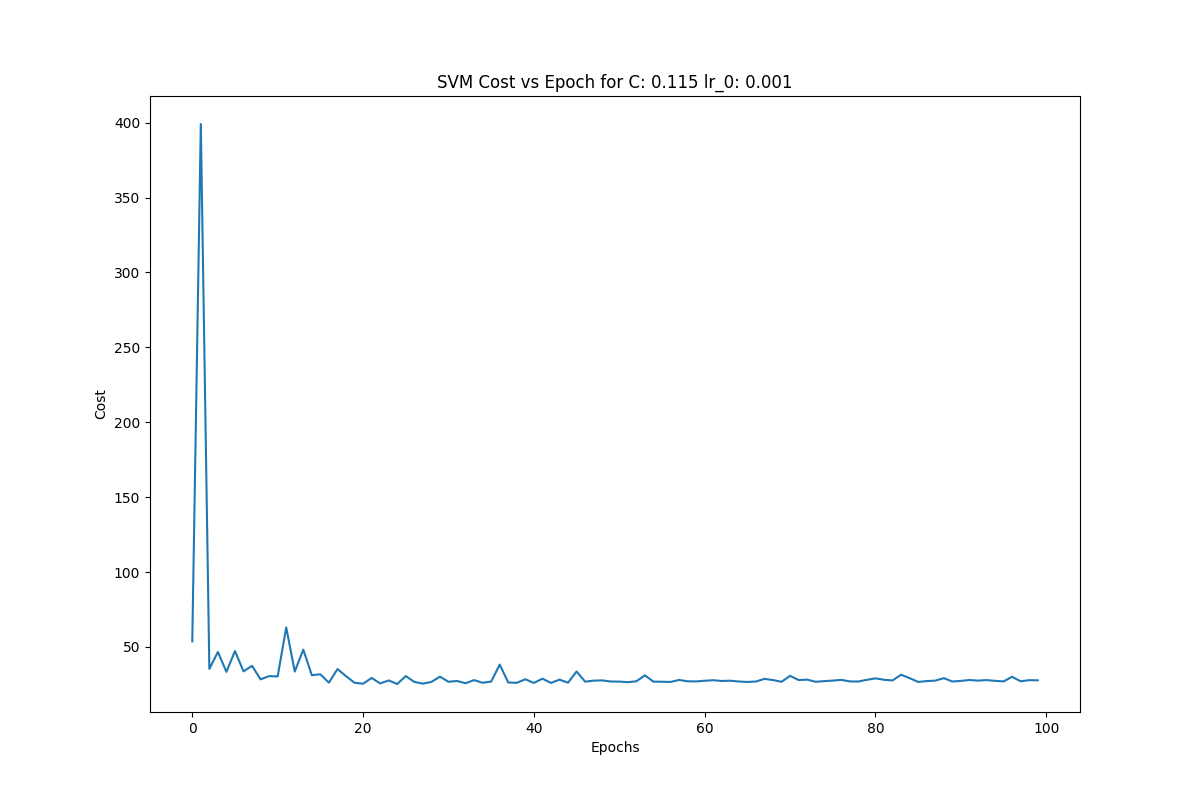
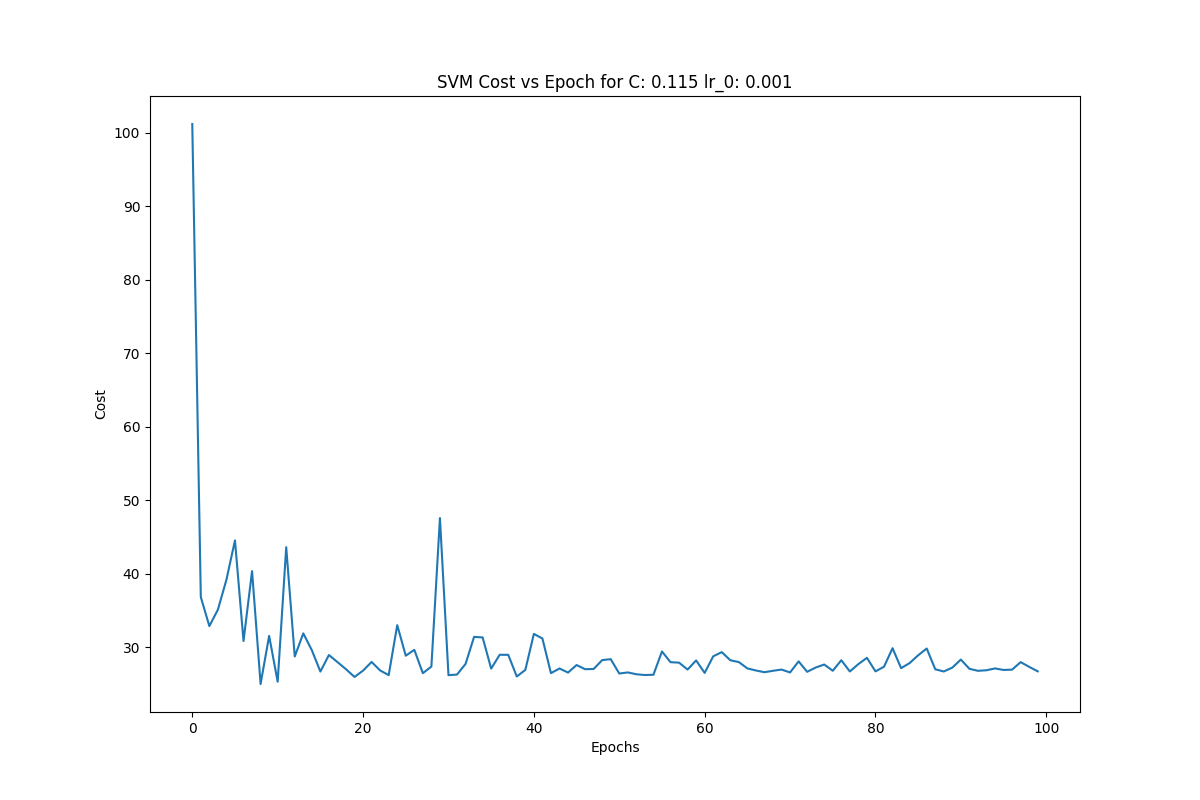
Finished SVM assignment

diff --git a/SVM/svm.py b/SVM/svm.py
@@ -66,7 +66,7 @@ def primal_stochastic_svm(train_x, train_y, test_x, test_y, C=100/873, lr_0=.001
         lr_schedule = lambda t,alpha: lr_0 / (1 + t)
 
     convergence_series = []
-    for epoch in range(max_epochs):
+    for epoch in range(1, max_epochs+1):
         lr = lr_schedule(epoch, a)
         rand_indices = np.random.choice(train_x.shape[0], train_x.shape[0],replace=True)
         batch_x = train_x.iloc[rand_indices]
@@ -108,8 +108,8 @@ def get_minimized_alphas(train_x, C, x, y, dual_svm_objective, dual_svm_jac):
     result = minimize(dual_svm_objective, a_0, constraints=constraints, method='SLSQP', bounds=bounds, jac=dual_svm_jac)
 
     minimized_a = result.x
-    minimized_a[np.isclose(minimized_a, 0)] = 0
-    minimized_a[np.isclose(minimized_a, C)] = C
+    minimized_a[np.isclose(minimized_a, 0, atol=.001)] = 0
+    minimized_a[np.isclose(minimized_a, C, atol=.001)] = C
     return minimized_a
 
 
@@ -153,7 +153,7 @@ def dual_svm(train_x, train_y, test_x, test_y, C=500/873, gamma=-1):
     test_error = 1 - np.mean(test_preds == test_y.values)
     train_error = 1 - np.mean(train_preds == train_y.values)
 
-    return weights, bias, train_error, test_error
+    return weights, bias, train_error, test_error, minimized_a
 
 
 
@@ -161,27 +161,58 @@ if __name__ == '__main__':
     train_x, train_y, test_x, test_y = read_bank_data()
     
     print("Primal SVM with stochastic sub-gradient descent with alpha learning-rate schedule:")
+    results = []
+
     for C in np.array([100/873, 500/873, 700/873]):
         weights, train_error, test_error = primal_stochastic_svm(train_x, train_y, test_x, test_y, C, a=.0001)
         print(f"C: {C.round(3)}, Weights: {weights.round(3)}, train_error: {train_error.round(3)}, test_error: {test_error.round(3)}")
+        results.append([C.round(3), train_error.round(3), test_error.round(3), weights.round(3)])
+
+    df = pd.DataFrame(results, columns=['C', 'Train Error', 'Test Error', 'Weights'])
+    df.to_latex('alpha_learning_rate_latex', index=False)
 
     print("\nPrimal SVM with stochastic sub-gradient descent without alpha learning-rate schedule:")
+    results = []
+
     for C in np.array([100/873, 500/873, 700/873]):
         weights, train_error, test_error = primal_stochastic_svm(train_x, train_y, test_x, test_y, C, a=-1)
         print(f"C: {C.round(3)}, Weights: {weights.round(3)}, train_error: {train_error.round(3)}, test_error: {test_error.round(3)}")
+        results.append([C.round(3), train_error.round(3), test_error.round(3), weights.round(3)])
 
+    df = pd.DataFrame(results, columns=['C', 'Train Error', 'Test Error', 'Weights'])
+    df.to_latex('no_alpha_learning_rate_latex', index=False)
+
+    results = []
     print("\nDual SVM Linear Kernel")    
     for C in np.array([100/873, 500/873, 700/873]):
-        weights, bias, train_error, test_error = dual_svm(train_x.drop(columns=['bias']), train_y, test_x.drop(columns=['bias']), test_y, C)
+        weights, bias, train_error, test_error, _ = dual_svm(train_x.drop(columns=['bias']), train_y, test_x.drop(columns=['bias']), test_y, C)
         print(f"C: {C.round(3)}, bias: {bias.round(3)}, Weights: {weights.round(3)}, train_error: {train_error.round(3)}, test_error: {test_error.round(3)}")
+        results.append([C.round(3), train_error.round(3), test_error.round(3), weights.round(3), bias.round(3)])
 
+    df = pd.DataFrame(results, columns=['C', 'Train Error', 'Test Error', 'Weights', 'bias'])
+    df.to_latex('dual_linear_kernel_latex', index=False)
+
+    results = []
+    support_results = []      
     print("\nDual SVM Gaussian Kernel")    
     for C in np.array([100/873, 500/873, 700/873]):
+        prev_minimized_alphas = None
+        num_overlap_support = None
         for gamma in np.array([.1, .5, 1, 5, 100]):
-            weights, bias, train_error, test_error = dual_svm(train_x.drop(columns=['bias']), train_y, test_x.drop(columns=['bias']), test_y, C, gamma)
-            print(f"C: {C.round(3)}, gamma: {gamma}, bias: {bias.round(3)}, Weights: {weights.round(3)}, train_error: {train_error.round(3)}, test_error: {test_error.round(3)}")
-    
-    # weights, bias, train_error, test_error = dual_svm(train_x.drop(
-    #     columns=['bias']), train_y, test_x.drop(columns=['bias']), test_y, gamma=.5)
+            weights, bias, train_error, test_error, minimized_alphas = dual_svm(train_x.drop(columns=['bias']), train_y, test_x.drop(columns=['bias']), test_y, C, gamma)
+            num_support_vector = np.count_nonzero(minimized_alphas)
+            print(f"C: {C.round(3)}, gamma: {gamma}, bias: {bias.round(3)}, Weights: {weights.round(3)}, train_error: {train_error.round(3)}, test_error: {test_error.round(3)}, Support Vector Count: {num_support_vector}")
+            results.append([C.round(3), gamma, train_error.round(3), test_error.round(3)])
+            if prev_minimized_alphas is not None:
+                support_vectors = np.nonzero(minimized_alphas)[0]
+                prev_support_vectors = np.nonzero(prev_minimized_alphas)[0]
+                num_overlap_support = np.intersect1d(support_vectors, prev_support_vectors, assume_unique=True).shape[0]
+                print(f"C: {C.round(3)}, gamma: {gamma}, Overlapping Support Vector Count: {num_overlap_support}")
+            
+            support_results.append([C.round(3), gamma, num_support_vector, num_overlap_support])
+            prev_minimized_alphas = minimized_alphas
 
-    # print(f"bias: {bias}, weights: {weights.round(3)} train_error: {train_error.round(3)}, test_error: {test_error.round(3)}")
+    df = pd.DataFrame(results, columns=['C', 'Gamma', 'Train Error', 'Test Error'])
+    df.to_latex('dual_gaussian_kernel_latex', index=False)
+    df = pd.DataFrame(support_results, columns=['C', 'Gamma', 'Number of Support Vectors', 'Number of Overlapping Support Vectors'])
+    df.to_latex('dual_gaussian_support_vectors_latex', index=False)
